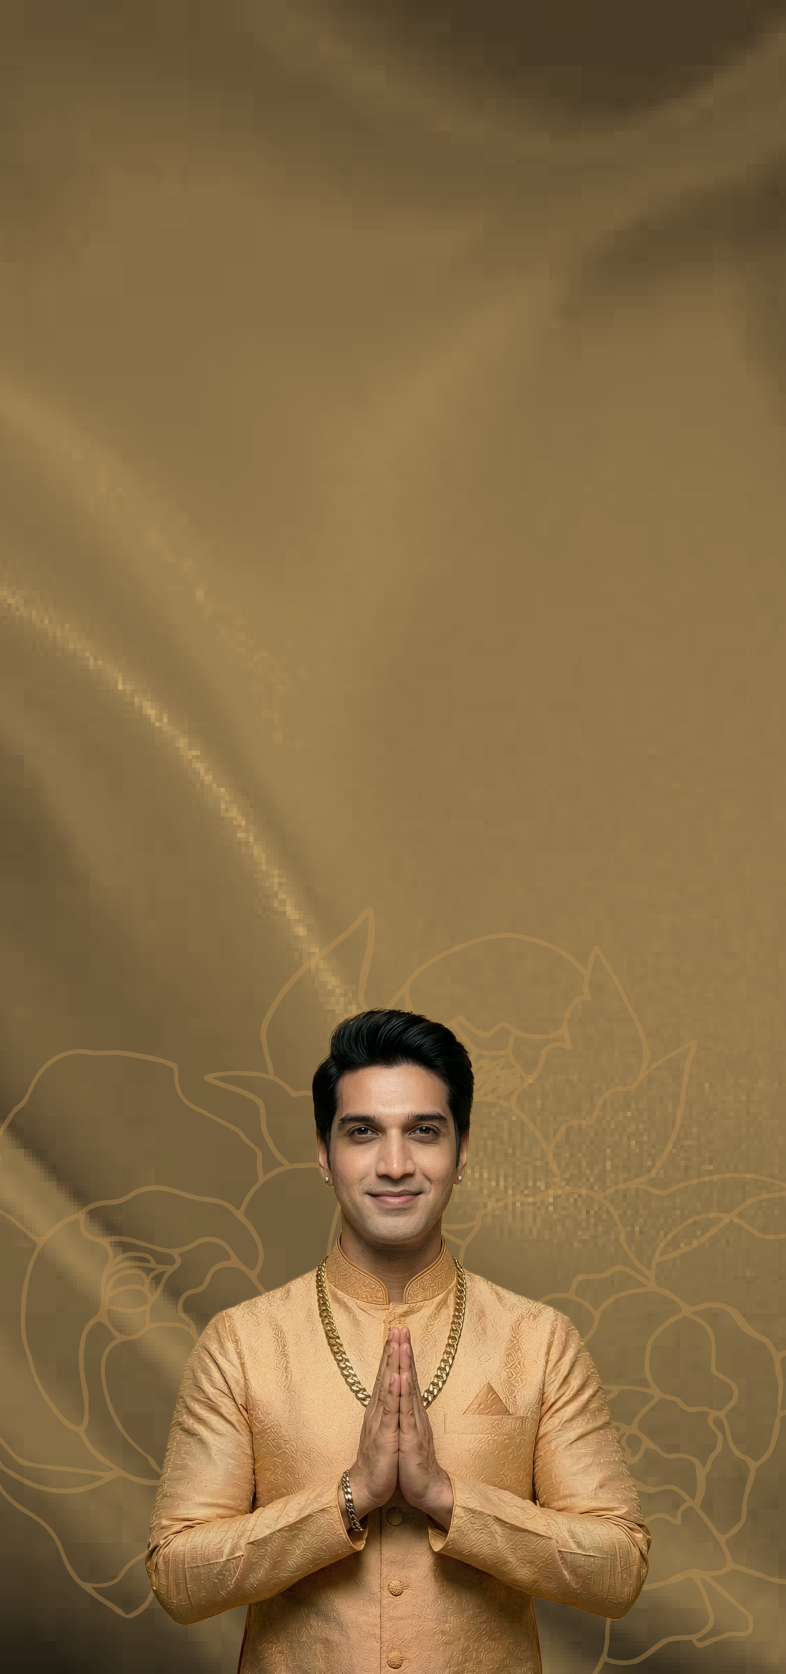
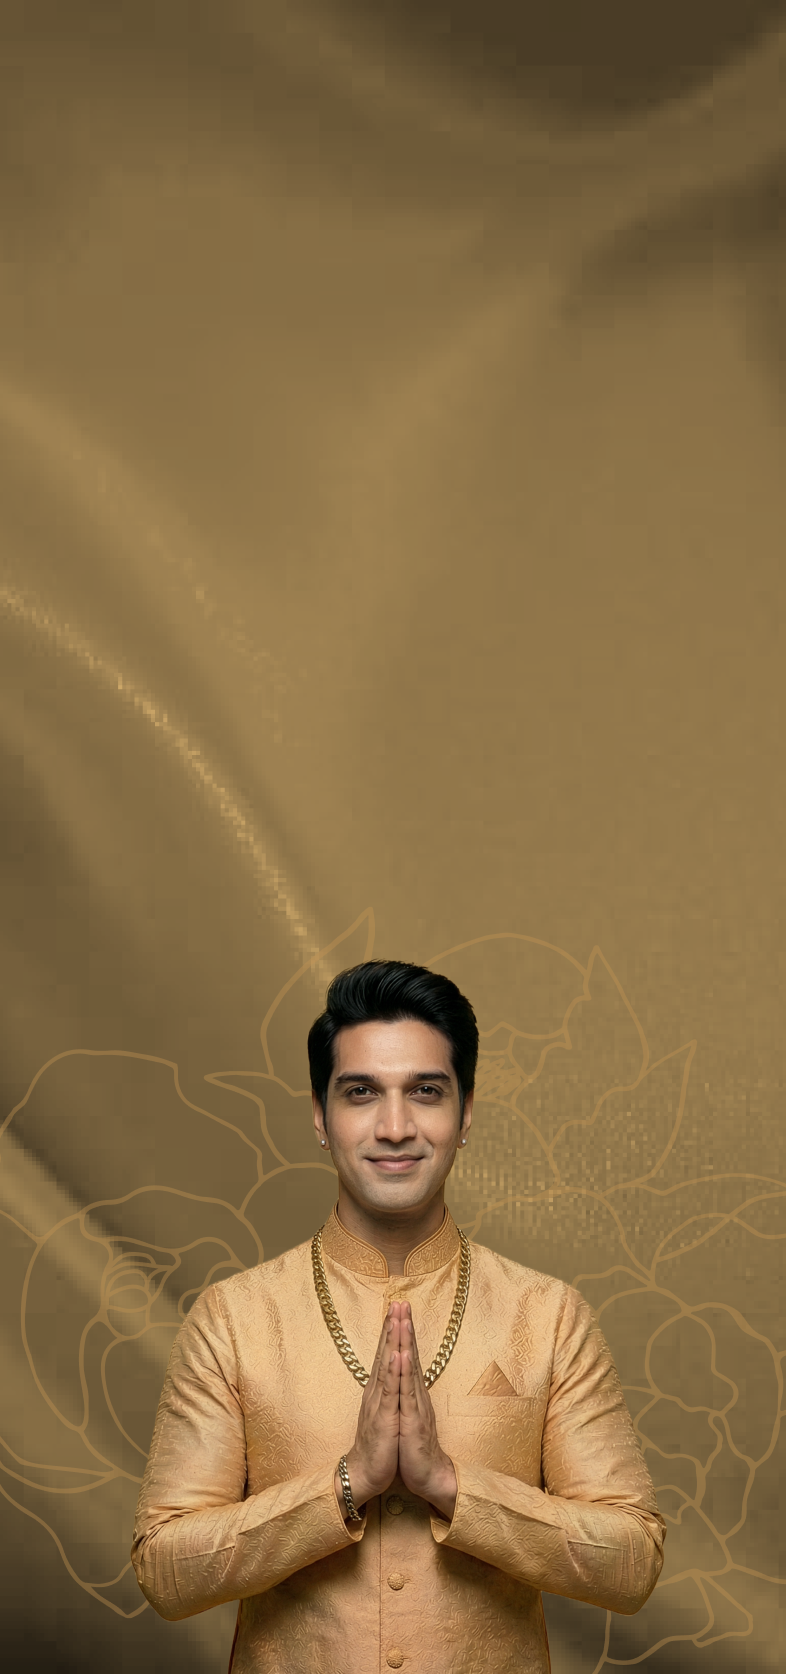
Updates on design correction
Update the mobile home slider for mobile version

Navbar corrections

Blogs filter

Changed region(s): [[0.1527, 0.5591, 0.855, 1.0]]

diff --git a/src/pages/Home.js b/src/pages/Home.js
@@ -97,28 +97,60 @@ function Home() {
     fetchBestSellerProducts();
   }, [collection]);
   function formatProduct(productNode) {
-  const {
-    id,
-    title,
-    description,
-    images,
-    variants,
-    featuredImage,
-    vendor,
-    productType,
-    tags,
-    createdAt,
-  } = productNode;
+    const {
+      id,
+      title,
+      description,
+      images,
+      variants,
+      featuredImage,
+      vendor,
+      productType,
+      tags,
+      createdAt,
+    } = productNode;
 
-  const allImages = images?.edges?.map((img) => img.node.url) || [];
-  const variantEdges = variants?.edges || [];
-  const firstVariant = variantEdges[0]?.node;
+    const allImages = images?.edges?.map((img) => img.node.url) || [];
+    const variantEdges = variants?.edges || [];
+    const firstVariant = variantEdges[0]?.node;
 
-  const isSimpleProduct =
-    variantEdges.length === 1 &&
-    variantEdges[0].node.selectedOptions?.[0]?.value === "Default Title";
+    const isSimpleProduct =
+      variantEdges.length === 1 &&
+      variantEdges[0].node.selectedOptions?.[0]?.value === "Default Title";
 
-  if (isSimpleProduct) {
+    if (isSimpleProduct) {
+      return {
+        productId: id,
+        title,
+        description,
+        vendor,
+        productType,
+        tags,
+        createdAt,
+        type: "simple",
+        price: firstVariant?.price,
+        compareAtPrice:
+          firstVariant?.compareAtPrice !== undefined
+            ? firstVariant.compareAtPrice
+            : null,
+        image: featuredImage?.url || allImages[0],
+        images: allImages,
+        variants: null,
+      };
+    }
+
+    const formattedVariants = variantEdges.map((v) => ({
+      variantId: v.node.id,
+      price: v.node.price,
+      compareAtPrice:
+        v.node.compareAtPrice !== undefined ? v.node.compareAtPrice : null,
+      inventoryQuantity: v.node.inventoryQuantity,
+      image: v.node.image?.url || featuredImage?.url,
+      // colorVariant: v.node.selectedOptions.map((opt) => [opt.name, opt.value]),
+      colorVariant: v.node.selectedOptions[0].value,
+
+    }));
+
     return {
       productId: id,
       title,
@@ -127,44 +159,12 @@ function Home() {
       productType,
       tags,
       createdAt,
-      type: "simple",
-      price: firstVariant?.price,
-      compareAtPrice:
-        firstVariant?.compareAtPrice !== undefined
-          ? firstVariant.compareAtPrice
-          : null,
-      image: featuredImage?.url || allImages[0],
+      type: "variant",
+      featuredImage: featuredImage?.url,
       images: allImages,
-      variants: null,
+      variants: formattedVariants,
     };
   }
-
-  const formattedVariants = variantEdges.map((v) => ({
-    variantId: v.node.id,
-    price: v.node.price,
-    compareAtPrice:
-      v.node.compareAtPrice !== undefined ? v.node.compareAtPrice : null,
-    inventoryQuantity: v.node.inventoryQuantity,
-    image: v.node.image?.url || featuredImage?.url,
-    // colorVariant: v.node.selectedOptions.map((opt) => [opt.name, opt.value]),
-    colorVariant: v.node.selectedOptions[0].value,
-
-  }));
-
-  return {
-    productId: id,
-    title,
-    description,
-    vendor,
-    productType,
-    tags,
-    createdAt,
-    type: "variant",
-    featuredImage: featuredImage?.url,
-    images: allImages,
-    variants: formattedVariants,
-  };
-}
   // product catogory
   const categorized = FestiveFiltered.reduce((acc, product) => {
     const type = product.productType || "Uncategorized";
@@ -173,7 +173,7 @@ function Home() {
     return acc;
   }, {});
 
- console.log(FestiveFiltered)
+  console.log(FestiveFiltered)
 
 
   async function fetchMetalRates() {
@@ -185,6 +185,7 @@ function Home() {
         Accept: "application/json",
       },
     });
+    // setIsRefreshing(true);
 
     const result = await response.json();
     const date = new Date(result.timestamps.metal);
@@ -197,7 +198,9 @@ function Home() {
         minute: "2-digit",
         hour12: true,
         timeZone: "Asia/kolkata",
+        
       })
+      
     );
 
     const price = result.metals.silver;
@@ -311,7 +314,10 @@ function Home() {
                 }`}
               src={refresh_icon}
               alt="Refresh icon"
-              onClick={fetchMetalRates}
+              onClick={() => {
+                fetchMetalRates ();
+                handleRefresh () ;
+              }}
             />
             <p className="text-[14px] text-right sm:text-[16px]">
               Last Updated {silverPriceUpdatedTime}
@@ -369,22 +375,23 @@ function Home() {
             <h1 className="font-atteron uppercase text-[40px] text-center xl:text-left sm:text-[50px] xl:text-[65px] text-white font-normal w-full sm:max-w-[720px] mx-auto tracking-[1px] xl:mx-0">
               Born from tradition Designed for today
             </h1>
-            <h4 className="font-poppins text-[13px] w-[270px] sm:w-full sm:text-[22px] font-normal leading-normal text-white text-center xl:text-left mt-8 max-w-[640px] mx-auto xl:mx-0">
+            <h4 className="font-poppins text-[13px] w-[270px] sm:w-full sm:text-[22px] font-normal leading-normal text-white text-center xl:text-left mt-3 sm:mt-6 xl:mt-8 max-w-[640px] mx-auto xl:mx-0">
               Because exculsive 925 silver jewelry should feel as unique as the one who wears it.
             </h4>
-            <a
+            {/* <a
               href="#launchOffers"
               className="w-fit hover:scale-110 transition duration-300 mx-auto xl:mx-0"
-            >
-              <button className=" mt-10 sm:mt-12 rounded-[32px] bg-[#CFA266] w-[259px] font-poppins text-[16px] font-normal text-white py-[16px] px-[14px] cursor-pointer">
+            > */}
+              <button onClick={() => document.getElementById("launchOffers")?.scrollIntoView({ behavior: "smooth",})} 
+                className=" mt-4 sm:mt-7 xl:mt-12 rounded-[32px] bg-[#CFA266] w-[259px] font-poppins text-[16px] font-normal text-white py-[16px] px-[14px] cursor-pointer">
                 View our Best Sellers
               </button>
-            </a>
+            {/* </a> */}
           </div>
         </SwiperSlide>
 
         {/* Women banner */}
-      <SwiperSlide>
+        <SwiperSlide>
           <div className="women-banner-slider">
             <h1 className="font-atteron uppercase text-[#5B3A09] text-[40px] text-center xl:text-left sm:text-[50px] xl:text-[65px] font-normal w-full sm:max-w-[780px] tracking-[1px]">
               Embrace your beauty Shine with Elegance
@@ -416,12 +423,12 @@ function Home() {
               href="#launchOffers"
               className="w-fit hover:scale-110 transition duration-300"
             >
-              <button className=" mt-10 sm:mt-11 rounded-[32px] bg-[#8F103B] w-[259px] font-poppins text-[16px] font-normal text-white py-[16px] px-[14px] cursor-pointer">
+              <button className=" mt-4 sm:mt-7 xl:mt-12 rounded-[32px] bg-[#8F103B] w-[259px] font-poppins text-[16px] font-normal text-white py-[16px] px-[14px] cursor-pointer">
                 View our mens Collections
               </button>
             </a>
           </div>
-        </SwiperSlide> 
+        </SwiperSlide>
       </Swiper>
 
       <div className="whyus">
@@ -457,7 +464,7 @@ function Home() {
                   collection?.filter((item) => item.handle !== "best_seller").map((item) => (
                     <Link
                       to={`/products/${item.handle}`}
-                      state={{ category: item.handle, collectionId: item.id}}
+                      state={{ category: item.handle, collectionId: item.id }}
                     >
                       <div className="border-2 border-white w-[360px] h-[361px] sm:h-[374px] relative z-0 overflow-hidden">
                         <img
@@ -497,7 +504,7 @@ function Home() {
                         <img
                           src={type?.image}
                           alt={type?.name}
-                          className="px-2 sm:px-0 w-[360px] h-fit sm:w-[395px] sm:h-[395px] " 
+                          className="px-2 sm:px-0 w-[360px] h-fit sm:w-[395px] sm:h-[395px] "
                         />
                         <h5 className="font-poppins text-[22px] font-normal leading-normal text-white mt-6">
                           {type?.title}

diff --git a/src/App.css b/src/App.css
@@ -430,7 +430,7 @@ input::placeholder {
 
   .banner-section {
     background-image: url("./assets/backgrounds/banner_background_mobile.png");
-    height: 780px;
+    height: 790px;
     background-size: cover;
     background-repeat: no-repeat;
     background-position: center;
@@ -444,7 +444,7 @@ input::placeholder {
 
   .women-banner-slider {
     background-image: url("./assets/Home_banner/banner_2_mobile.png");
-    height: 780px;
+    height: 790px;
     background-size: cover;
     background-repeat: no-repeat;
     background-position: center;
@@ -452,14 +452,14 @@ input::placeholder {
     flex-direction: column;
     justify-content: flex-start;
     align-items: center;
-    padding: 110px 0px;
+    padding: 100px 0px;
   }
 
   
 
   .men-banner-slider {
   background: url("./assets/Home_banner/menbanner_mobile.png");
-  height: 780px;
+  height: 790px;
   background-size: cover;
   background-repeat: no-repeat;
   background-position: center;
@@ -468,7 +468,7 @@ input::placeholder {
   flex-direction: column;
   justify-content: flex-start;
    align-items: center;
-  padding: 110px 0px;
+  padding: 100px 10px;
 }
 
 .design-section {
@@ -489,7 +489,7 @@ input::placeholder {
     flex-direction: column;
     justify-content: flex-start;
     align-items: center;
-    padding: 110px 0px;
+    padding: 100px 0px;
     background-position: center center;
   }
 

diff --git a/src/pages/Blog.js b/src/pages/Blog.js
@@ -16,7 +16,7 @@ function Blog() {
   const [showSort, setShowSort] = useState("");
   const [selectedSort, setSelectedSort] = useState("Latest");
 
-
+  
   //  fetching blogs
   const Blogs = async () => {
     try {
@@ -112,7 +112,7 @@ function Blog() {
               </select>
 
               <img
-                className="absolute right-2 top-1/2 transform -translate-y-1/2 w-[24px]"
+                className="absolute right-2 top-1/2 transform -translate-y-1/2 w-[24px] pointer-events-none"
                 src={down_arrow}
                 alt="Down Arrow"
               />
@@ -127,7 +127,7 @@ function Blog() {
             return (
               <Link to="/blogdescription">
                 <div className="max-w-[410px] mx-auto font-[poppins] xl:mx-0">
-                  <img className="w-[361px] h-[300px] sm:w-[415px] sm:h-[290px] object-cover rounded-[18px]"
+                  <img className="w-full h-[300px] sm:w-[415px] sm:h-[290px] object-cover rounded-[18px]"
                     src={article?.image?.src}
                     alt="Blog image"
                   />

diff --git a/src/components/Navbar.js b/src/components/Navbar.js
@@ -640,7 +640,7 @@ function Navbar() {
                       className="w-6 h-6"
                     />
                   </div>
-                  <div className="min-w-[260px] mx-auto mt-5">
+                  <div className="min-w-[260px] mx-auto ">
                     <AnimatePresence>
                       {mobileProductDropdown && (
                         <motion.div
@@ -651,7 +651,7 @@ function Navbar() {
                           className="flex flex-col items-center"
                         >
                           {/* Subcategory of products */}
-                          <div className="flex flex-col gap-3 w-full max-w-[260px]">
+                          <div className="flex flex-col gap-3 w-full max-w-[260px] mt-5">
                             {collection &&
                               collection
                                 ?.filter(
